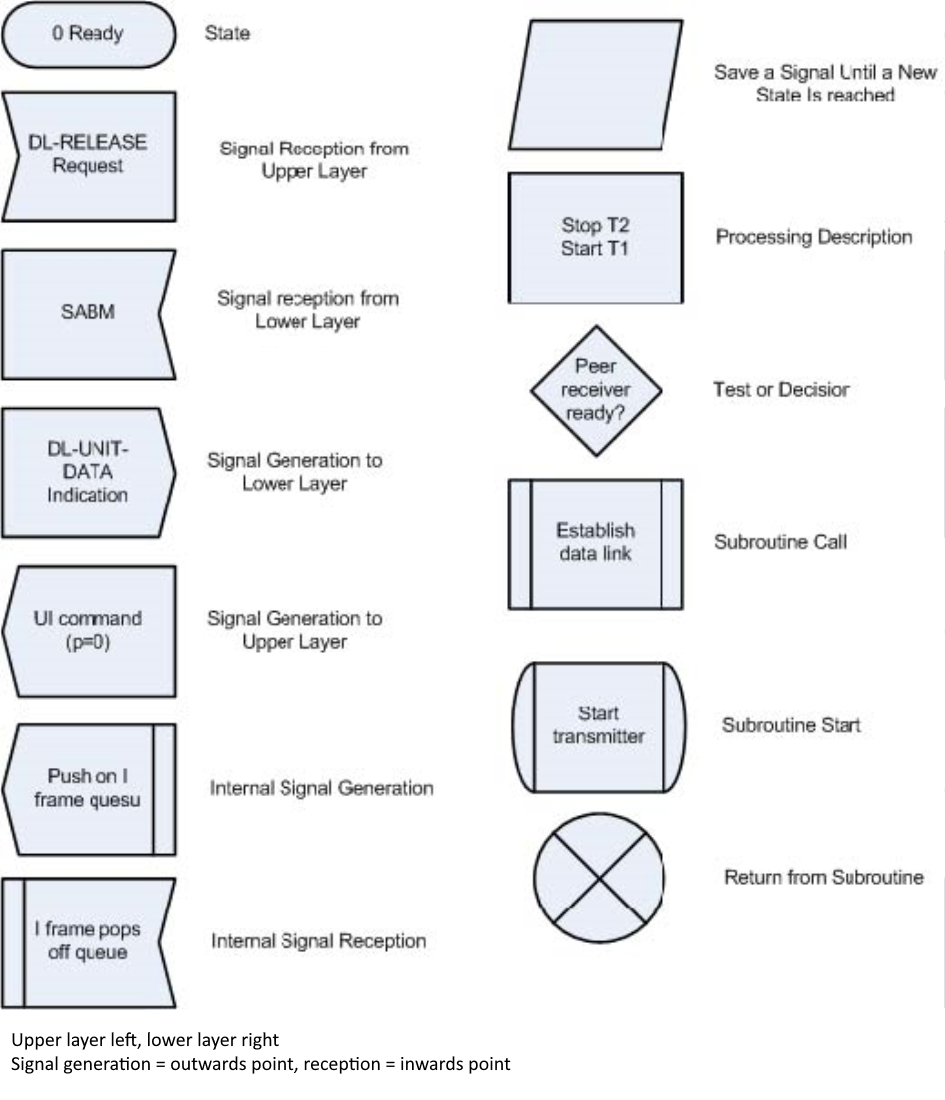
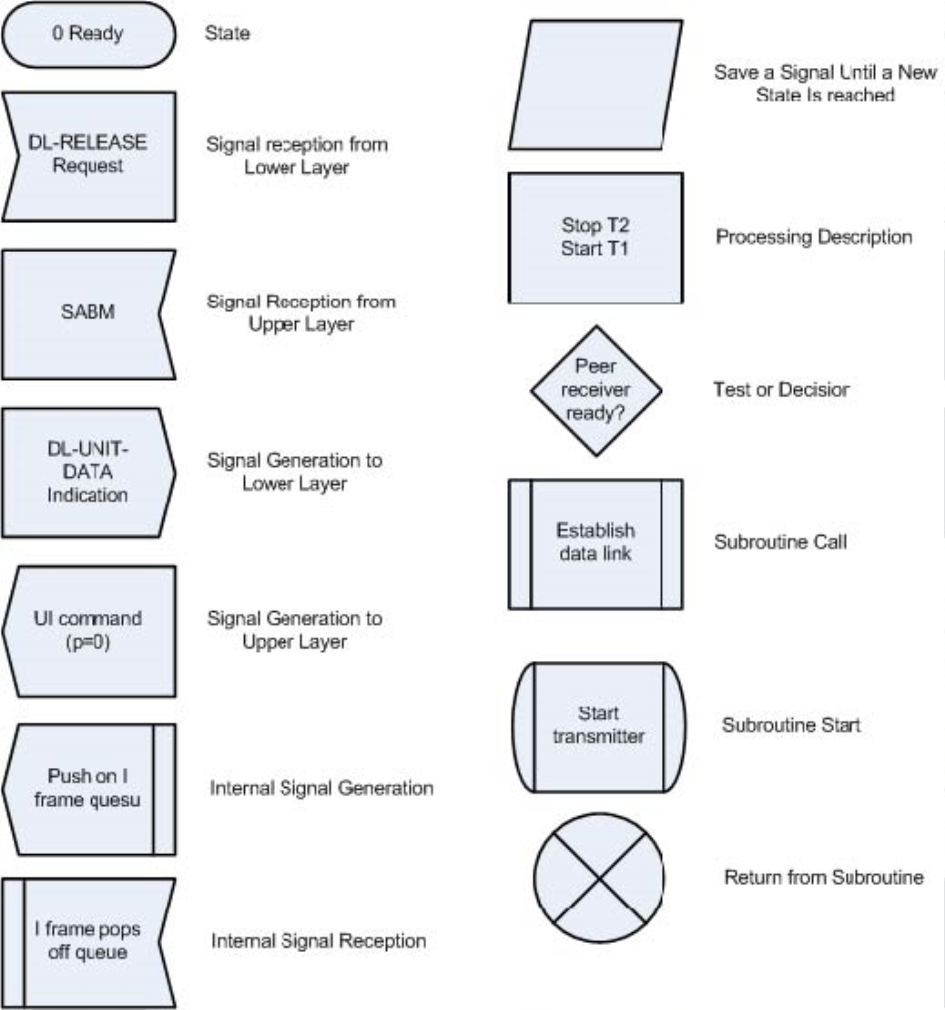
Revert figc1.1.png in the v2.2.4 folder to the source-faithful figure (#78)
Image-history audit of doc/media/ax.25.2.2.4_Oct_25/: seven images
have more than one content version in history. Six (figc4.1, 4.4a,
4.4b, 4.5a, 4.6b, 4.7a) were re-snips fixing wrongly-cropped captures
(16288d8) and were verified against the rendered PDF pages - all
faithful, no action. The seventh, figc1.1.png, was deliberately
edited in June 2026 (f97537c/845c68e): the swapped "Signal reception
from Upper/Lower Layer" labels were corrected and a clarifying footer
added, per the WG discussion (issue #37).

Per the fidelity policy, the v2.2.4 copy is restored to the original
blob (verified pixel-for-pixel against the PDF's Figure C1.1, page
55), with an HTML comment noting the known defect; the corrected
figure remains in doc/media/ax.25.2.3-draft/, and the fix is now
recorded in the draft's changelog table (1 June 2026 row).

Claude-Session: https://claude.ai/code/session_01XodLuT1R8a4HY76RSZrqFi

diff --git a/doc/ax.25.2.3-draft.md b/doc/ax.25.2.3-draft.md
@@ -26,6 +26,7 @@ Copyright (c) 1997 by Tucson Amateur Packet Radio Corporation. Portions Copyrigh
 | §5, Appendices C1–C6 and D | All layer-to-layer primitives renamed to SDL dot notation ("DL-DATA Request" → "DL-DATA.Request") and "Indicate" corrected to "Indication" throughout (the primitive types are Request, Indication and Confirm). Inconsistent v2.2 forms ("LMSEIZE Confirm", "LM Release Request", "DLCONNECT request", "HW-AOS Indicate") were normalised, and the appendix primitive summary lists regrouped under the correct Received/Sent headings. Collateral damage from the mass find-replace was subsequently repaired. | Bill Beech, NJ7P (sweep); Tom Fanning, M0LTE (cleanup) | 24–27 May 2026 | groups.io: [msg 115](https://groups.io/g/ax25/message/115), [msg 120](https://groups.io/g/ax25/message/120); PRs [#26](https://github.com/packethacking/ax25spec/pull/26), [#27](https://github.com/packethacking/ax25spec/pull/27), [#28](https://github.com/packethacking/ax25spec/pull/28) |
 | Appendix C4.3 | Placeholder "T2 [need to fix this]" added to the data-link state machine timer summary: v2.2 refers to a T2 response-delay timer but never properly defines it. | Bill Beech, NJ7P (raised by John Langner, WB2OSZ) | 24 May 2026 | groups.io: [T2 Timer](https://groups.io/g/ax25/topic/119409052); issues [#25](https://github.com/packethacking/ax25spec/issues/25), [#16](https://github.com/packethacking/ax25spec/issues/16) |
 | Appendix C6 | Retitled "Segmenter/Reassembler State Machines". The editors intend to split the segmenter and reassembler into two separate state machines in a future revision. | Bill Beech, NJ7P | 24 May 2026 | groups.io: [msg 115](https://groups.io/g/ax25/message/115); issues [#29](https://github.com/packethacking/ax25spec/issues/29), [#15](https://github.com/packethacking/ax25spec/issues/15) |
+| Appendix C1.2, Figure C1.1 | The "Signal reception from Lower Layer" / "Signal Reception from Upper Layer" labels on the two input-symbol examples were swapped in the published v2.2 figure, contradicting the notch convention described in the C1.2 text. The figure carried in this draft is corrected, with a clarifying footer added ("Upper layer left, lower layer right; signal generation = outwards point, reception = inwards point"). The v2.2.4 transcription retains the original figure verbatim. | Tom Fanning, M0LTE | 1 June 2026 | groups.io: [Fig C1.1 labels](https://groups.io/g/ax25/topic/119518085); issue [#37](https://github.com/packethacking/ax25spec/issues/37) |
 | Title page, revision history | Renumbered from "Version 2.3 Revision 1" (v2.3.1) to "Version 2.3 Revision 0" (v2.3.0): the working group's first v2.3 release will be v2.3.0, and iterations of this draft are tagged `ax25-v2.3.0.N`. | Tom Fanning, M0LTE | 16 July 2026 | PR [#75](https://github.com/packethacking/ax25spec/pull/75) |
 
 Original: 1993 Version 1

diff --git a/doc/ax.25.2.2.4_Oct_25.md b/doc/ax.25.2.2.4_Oct_25.md
@@ -1838,6 +1838,7 @@ The test symbol is used for branching. The text written within the symbol is pos
 The subroutine symbol is used to encapsulate frequently used sequences of steps; the name of the subroutine is written within the symbol. The expansion of the subroutine is listed at the end of the SDL machine description. Subroutine expansions begin with a subroutine start symbol,
 flow down the page through the specified sequence of operations, and end with the return-from-subroutine symbol. Note that subroutines are not permitted to contain states, nor are they permitted to branch into different return legs. Each subroutine has a single point of return.
 
+<!-- Transcription note: this figure reproduces the source document verbatim, including its known defect — the "Signal reception from Lower Layer" / "Signal Reception from Upper Layer" labels on the two input-symbol examples are swapped relative to the notch convention described in the C1.2 text. The corrected figure (with a clarifying footer) is carried in the v2.3 draft. See https://groups.io/g/ax25/topic/119518085 and issue #37. -->
 ![Figure C1.1 SDL Symbol Definitions](media/ax.25.2.2.4_Oct_25/figc1.1.png)
 
 **Figure C1.1 SDL Symbol Definitions**
